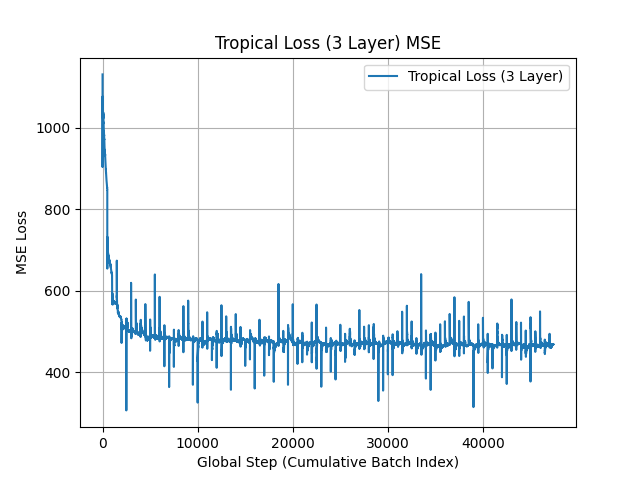
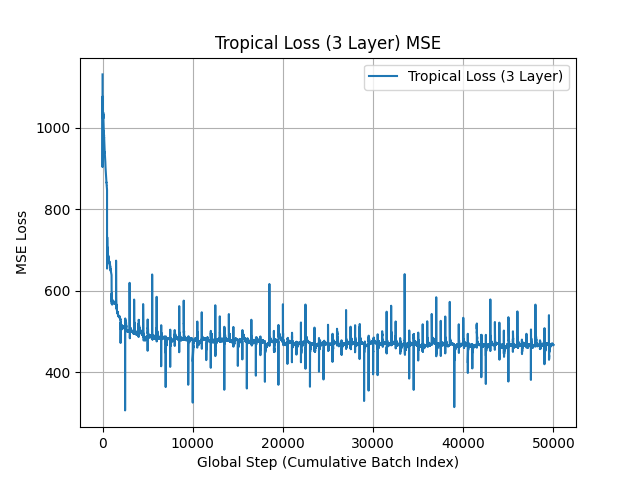
generated a calm loss plot for the slideshow

diff --git a/plot_losses.py b/plot_losses.py
@@ -56,3 +56,17 @@ for name in name_dict.keys():
     plt.grid(True)
     plt.legend()
     plt.savefig(f'15_exp/plots/{title.replace(" ", "_")}.png')
+
+# Long run: 20,000 epoch tropical FloydWarshall — plot mean loss per epoch
+long_run_df = pd.read_csv('15_exp/train/train_FloydWarshallDataset_tropical_0.0001_20000_20260304_144012_relu.csv')
+epoch_loss = long_run_df.groupby('epoch')['loss'].mean()
+
+plt.figure(figsize=(12, 5))
+plt.plot(epoch_loss.index, epoch_loss.values, linewidth=0.8)
+plt.xlabel('Epoch')
+plt.ylabel('Mean MSE Loss')
+plt.title('Tropical FloydWarshall — Mean Loss per Epoch (20k epochs, lr=1e-4, relu)')
+plt.grid(True)
+plt.yscale('log')
+plt.tight_layout()
+plt.savefig('15_exp/plots/tropical_floydwarshall_20k_loss_vs_epoch.png', dpi=150)
